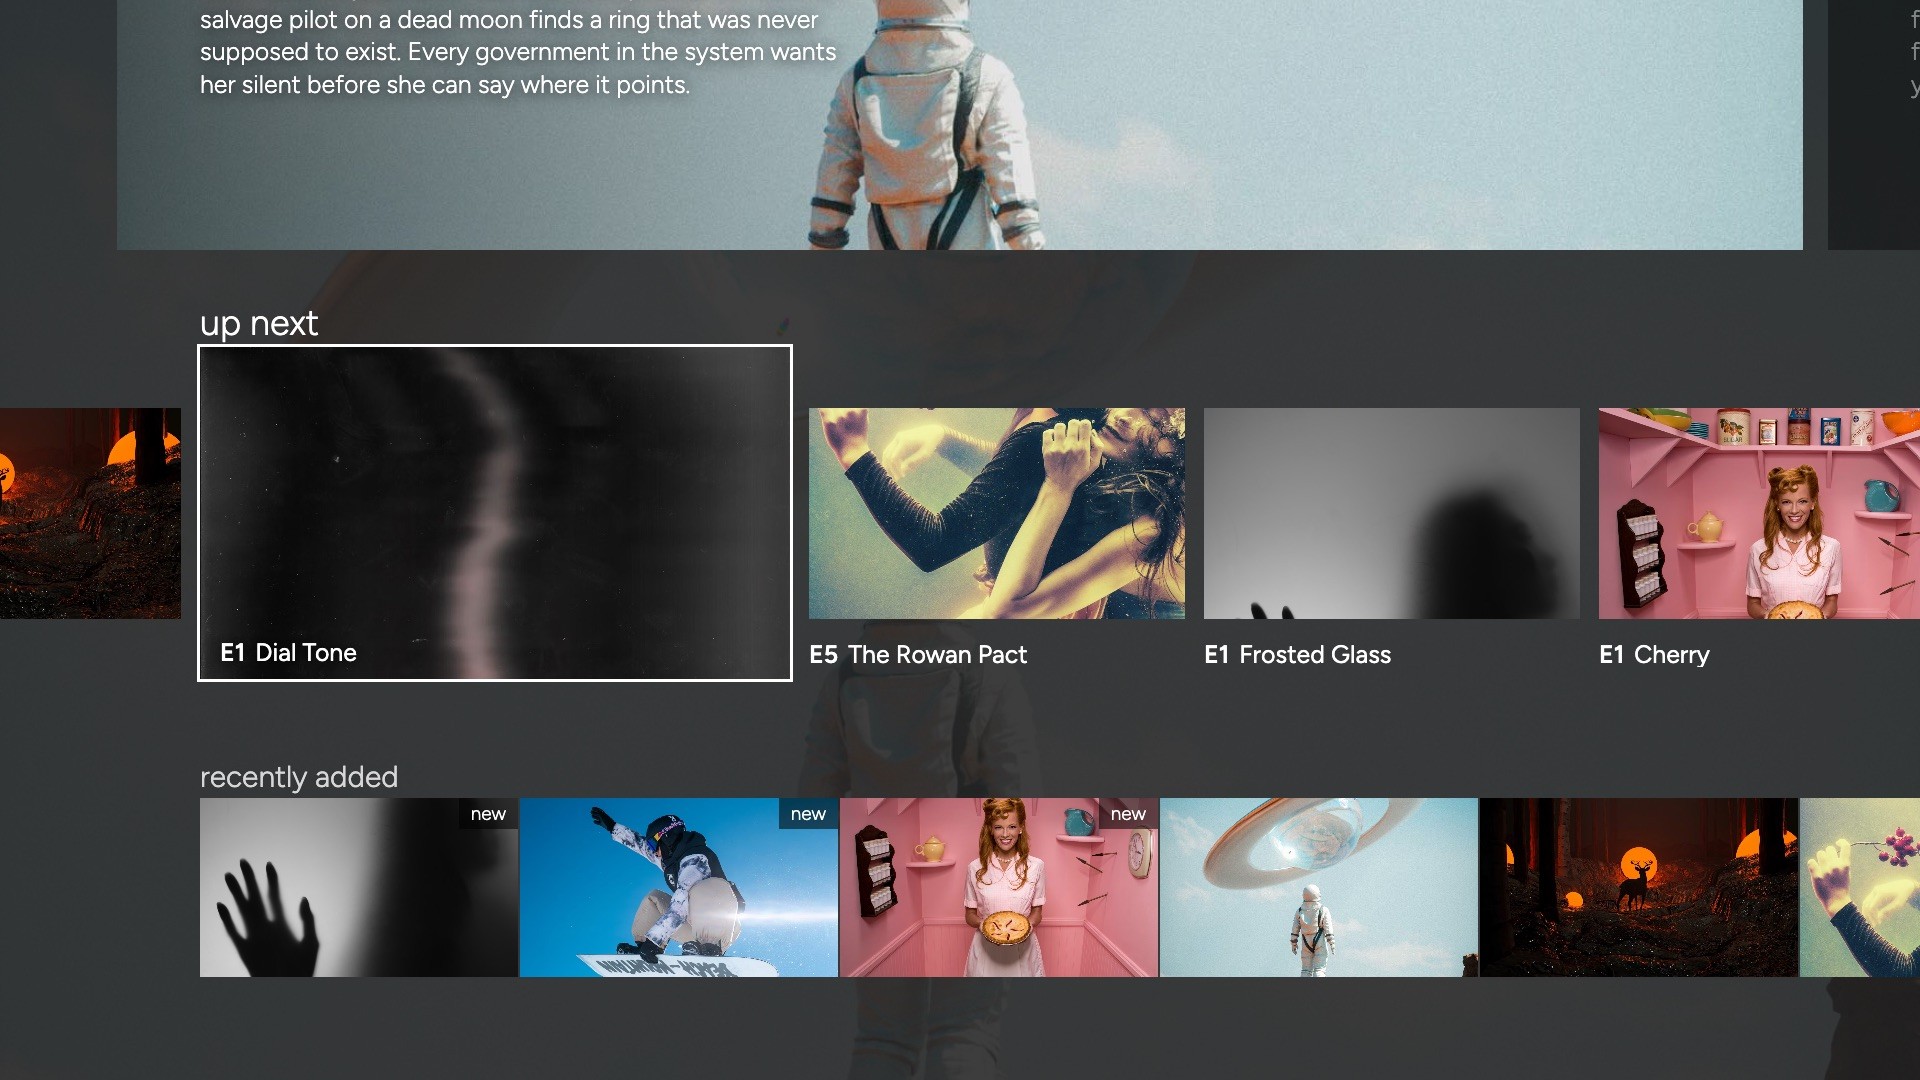
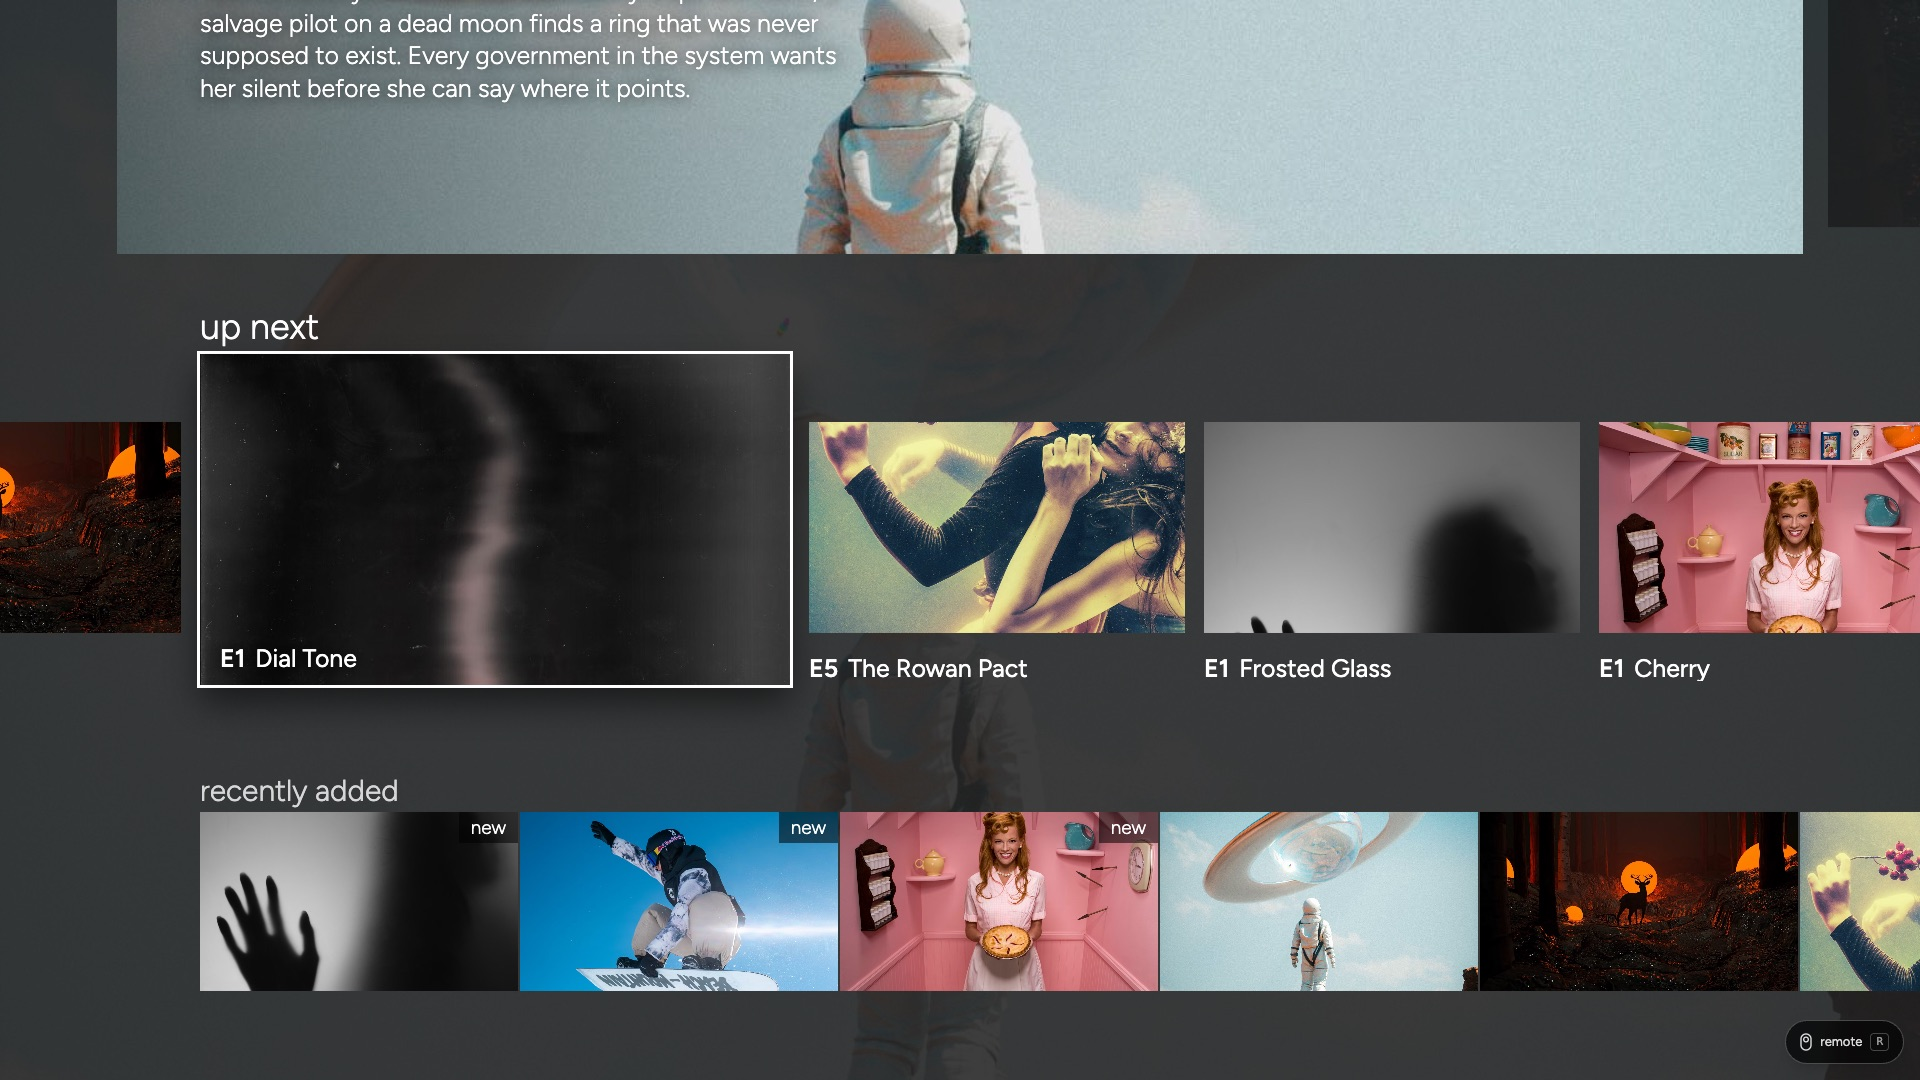
Season tabs never slide; focused tile clears the row label
Season tabs sit in a fixed line from x=200: the strip no longer slides by
-seasonIndex * TAB_PITCH, so selecting a season changes weight only.

An open row now keeps LIFT_ROOM (the 8 px focusLift plus the 3 px ring)
between its label and its tiles, so the lifted 590x332 tile's ring lands
6 px under the label instead of 5 px over it. Row is shared, so Home,
Watchlist and the Player's credits row get the same clearance. No motion
token changed; the gap animates on spring.scroll with the row's height.

Re-captured show-detail, home-rows and player-credits; style guide updated.

Closes #27. Part of #25.

diff --git a/src/components/Row.tsx b/src/components/Row.tsx
@@ -2,6 +2,7 @@ import { useEffect, useState, type ReactNode } from 'react'
 import { motion } from 'motion/react'
 import { useFocusable, useFocusedId } from '../focus/FocusEngine'
 import { useMotion } from '../motion/useMotion'
+import { distance } from '../motion/tokens'
 import { Badge } from './Badge'
 
 /*
@@ -9,6 +10,8 @@ import { Badge } from './Badge'
  *  plain  318x179 tiles, 2px gap, no labels
  *  big    376x211 tiles with labels below, 19px gap; the current tile 590x332
  *         with its label inside; a white border when it is actually focused.
+ *         The label sits LIFT_ROOM further above the tiles than in plain mode,
+ *         so the focused tile's lift and ring never cross it (issue #27).
  * The row is a carousel anchored at x=200: the current tile sits at the safe
  * inset and the previous one peeks in from the left edge. Strip, widths and
  * height move on the `strip` spring; the focused tile lifts on `focus`;
@@ -18,9 +21,13 @@ import { Badge } from './Badge'
 export const PLAIN = { w: 318, h: 179, gap: 2 }
 export const BIG = { w: 376, h: 211, gap: 19, focusW: 590, focusH: 332 }
 export const ROW_LABEL_H = 33
+/** Focus ring width, px: the white border in FOCUS_RING. */
+const RING_W = 3
+/** Room a big row keeps between label and tiles for the lift and the ring: the lifted ring lands where the resting tile sat. */
+export const LIFT_ROOM = -distance.focusLift + RING_W
 /** Row block heights (label + gap + tiles) in each mode. */
 export const ROW_H_PLAIN = ROW_LABEL_H + PLAIN.h
-export const ROW_H_BIG = ROW_LABEL_H + 6 + BIG.focusH
+export const ROW_H_BIG = ROW_LABEL_H + 6 + LIFT_ROOM + BIG.focusH
 
 export type RowItem = {
   id: string
@@ -76,10 +83,10 @@ export function Row({ id, label, items, mode = 'auto', initialIndex = 0, aside, 
         {aside}
       </div>
       <motion.div
-        className="mt-[6px] flex items-center"
+        className="flex items-center"
         initial={false}
-        animate={{ height: big ? BIG.focusH : PLAIN.h, x: -anchor * pitch }}
-        transition={{ default: m.strip, height: m.scroll }}
+        animate={{ marginTop: big ? 6 + LIFT_ROOM : 6, height: big ? BIG.focusH : PLAIN.h, x: -anchor * pitch }}
+        transition={{ default: m.strip, marginTop: m.scroll, height: m.scroll }}
       >
         <motion.div
           className="flex items-center"
@@ -140,9 +147,9 @@ function Tile({ rowId, item, big, current }: { rowId: string; item: RowItem; big
   )
 }
 
-/** Focus ring: a white 3px border and a drop shadow under the lifted tile. Both ends share one shape so it tweens. */
-export const FOCUS_RING = '0 0 0 3px rgba(255,255,255,1), 0 18px 36px rgba(0,0,0,0.55)'
-export const NO_RING = '0 0 0 3px rgba(255,255,255,0), 0 0px 0px rgba(0,0,0,0)'
+/** Focus ring: a white RING_W border and a drop shadow under the lifted tile. Both ends share one shape so it tweens. */
+export const FOCUS_RING = `0 0 0 ${RING_W}px rgba(255,255,255,1), 0 18px 36px rgba(0,0,0,0.55)`
+export const NO_RING = `0 0 0 ${RING_W}px rgba(255,255,255,0), 0 0px 0px rgba(0,0,0,0)`
 
 /** `E2 Heros and Morons` with the number in the label weight. */
 export function EpisodeLabel({ season, number, title }: { season?: number; number: number; title: string }) {

diff --git a/src/motion/tokens.ts b/src/motion/tokens.ts
@@ -30,7 +30,7 @@ export const spring = {
   focusInFast: { type: 'spring', stiffness: 700, damping: 40, mass: 0.8 },
   /** Focus leaving: softer than focusIn, so the old tile trails the new one. */
   focusOut: { type: 'spring', stiffness: 200, damping: 26, mass: 1 },
-  /** Sideways moves: row strips, season tabs, expanded-tile width. About 250 ms, no overshoot. */
+  /** Sideways moves: row strips, expanded-tile width. About 250 ms, no overshoot. */
   strip: { type: 'spring', stiffness: 260, damping: 32, mass: 1 },
   /** Home's hero strip sliding one panel (1711 px): about 450 ms, critically damped, like the 2017 slide. */
   heroSlide: { type: 'spring', stiffness: 170, damping: 26, mass: 1 },

diff --git a/src/screens/ShowDetail.tsx b/src/screens/ShowDetail.tsx
@@ -74,12 +74,13 @@ function ShowPage({ show }: { show: Show }) {
     [show, season, navigate],
   )
 
+  // Tabs sit in a fixed line from x=200 and never slide: selecting a season changes weight only.
   const tabs = (
-    <motion.div className="flex items-end" initial={false} animate={{ x: -seasonIndex * TAB_PITCH }} transition={m.strip}>
+    <div className="flex items-end">
       {show.seasons.map((s, i) => (
         <SeasonTab key={s.number} show={show} season={s} active={i === seasonIndex} onSelect={() => setSeasonIndex(i)} />
       ))}
-    </motion.div>
+    </div>
   )
 
   return (

diff --git a/docs/style-guide/layout.md b/docs/style-guide/layout.md
@@ -35,14 +35,14 @@ The dashed rectangle is the benchmark's safe inset. The app puts its **left cont
 | Nav | at (200, 48), 64 high; gaps of 60 between logo and items | `Nav.tsx` |
 | Hero panel | 1686 x 672 at (117, 130); gap 25 between panels | `Hero.tsx` |
 | Hero to first row | 58 | `Home.tsx` |
-| Row label | 33 high, then 6 to the tiles | `Row.tsx` |
+| Row label | 33 high, then 6 to the tiles; 17 once the row is open, so the lifted tile and its ring clear the label (`LIFT_ROOM`) | `Row.tsx` |
 | Plain tile | 318 x 179, 2 px gap | `Row.tsx` |
 | Big tile (row focused) | 376 x 211, 19 px gap, labels beneath | `Row.tsx` |
 | Current tile (row focused) | 590 x 332, label inside | `Row.tsx` |
 | Row gap | 80 on Home, 85 on Watchlist | `Home.tsx`, `Watchlist.tsx` |
 | Shows grid | 4 columns of 320 x 180; column pitch 400 (80 gap), row pitch 249 (69 gap); grid at (200, 250) | `GridTile.tsx`, `Shows.tsx` |
 | Shows tabs | at (200, 160), 48 apart | `Shows.tsx` |
-| Show page | title at (200, 268), max 620 wide; season tabs at y 536, 132 apart; episode row at y 645 | `ShowDetail.tsx` |
+| Show page | title at (200, 268), max 620 wide; `+` at y 536; episode row at y 645, its label the season tabs in a fixed line from x 200, 132 apart, never sliding | `ShowDetail.tsx` |
 | Round button | 60 px circle, 3 px border | `RoundButton.tsx` |
 | Player | timeline full width, 3 px, five segments with 12 px gaps | `Player.tsx` |
 

diff --git a/docs/style-guide/motion.md b/docs/style-guide/motion.md
@@ -13,7 +13,7 @@ The direction: the 2017 prototype used fixed ease-out tweens. The rebuild keeps 
 | `focusIn` | 400 / 30 / 0.8 | settles in about 200 ms | focus arriving on a tile, round button or logo (ring, scale, lift) |
 | `focusInFast` | 700 / 40 / 0.8 | about 150 ms | the same, while arrows are pressed rapidly (under 160 ms apart) |
 | `focusOut` | 200 / 26 / 1 | softer, so the old tile trails the new one | focus leaving |
-| `strip` | 260 / 32 / 1 | about 250 ms, no overshoot | sideways moves: row strips, season tabs, an expanding tile's width |
+| `strip` | 260 / 32 / 1 | about 250 ms, no overshoot | sideways moves: row strips, an expanding tile's width (season tabs never move; selecting one changes weight only) |
 | `heroSlide` | 170 / 26 / 1 | about 450 ms, critically damped | Home's hero strip sliding one panel (1711 px) |
 | `scroll` | 90 / 20 / 1 | about 600 ms | up and down: the page scrolling, a row opening to its big height, the Player's overlay shifting |
 | `morph` | 80 / 18 / 1 | about 700 ms, critically damped | the hero to show-page shared-element flight and its reverse |

diff --git a/docs/style-guide/focus-and-states.md b/docs/style-guide/focus-and-states.md
@@ -24,7 +24,7 @@ Ring and shadow tween together: the unfocused ring is the same shape at zero opa
 
 ## Rows: the expanding tile
 
-Rows keep the 2017 behaviour: focusing a tile in a row **opens the row**. Tiles grow from 318 x 179 to 376 x 211 with labels beneath, and the current tile opens to 590 x 332 with its label inside. The focused tile also takes the white ring and the 8 px lift. The row label brightens from 30 px at 80% white to 36 px at 100%. Neighbouring tiles stay at full brightness.
+Rows keep the 2017 behaviour: focusing a tile in a row **opens the row**. Tiles grow from 318 x 179 to 376 x 211 with labels beneath, and the current tile opens to 590 x 332 with its label inside. The focused tile also takes the white ring and the 8 px lift; an open row keeps 11 px more between its label and its tiles, so the lifted ring lands 6 px under the label and never crosses it. The row label brightens from 30 px at 80% white to 36 px at 100%. Neighbouring tiles stay at full brightness.
 
 ## Hero: ring without lift
 
